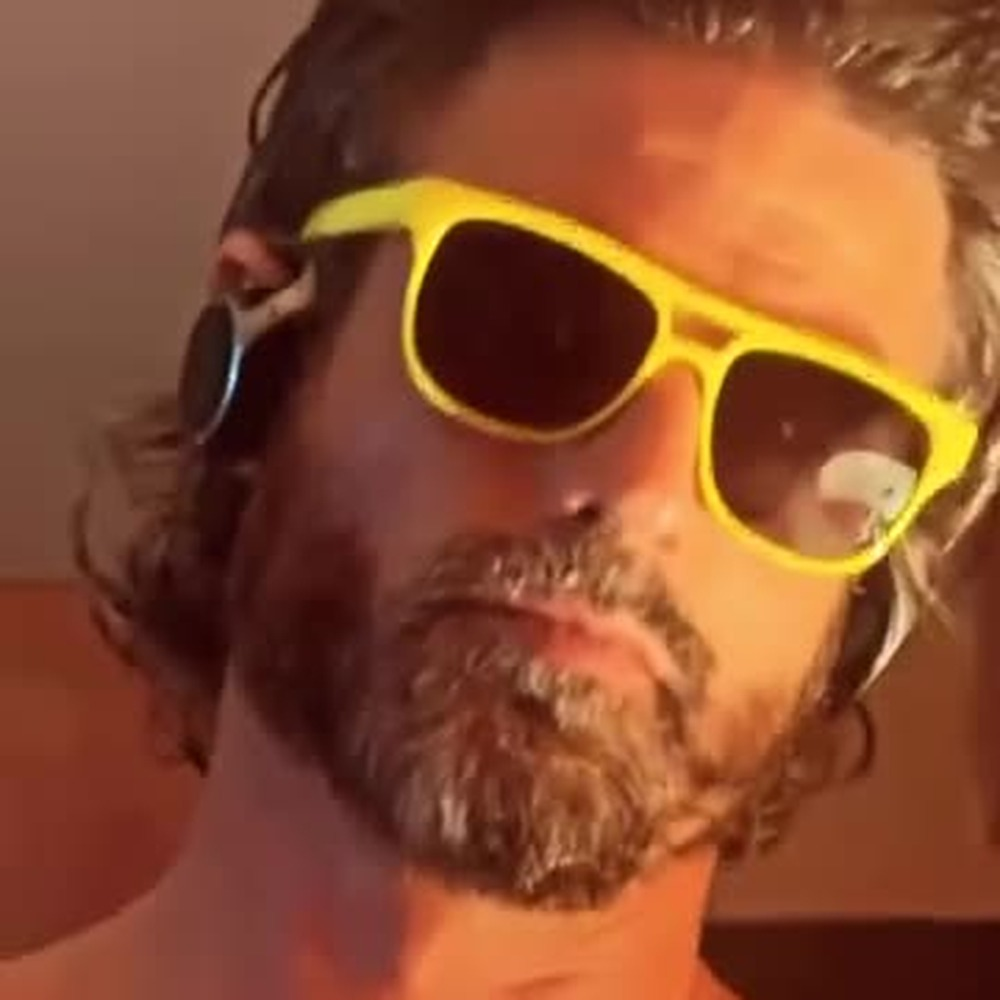
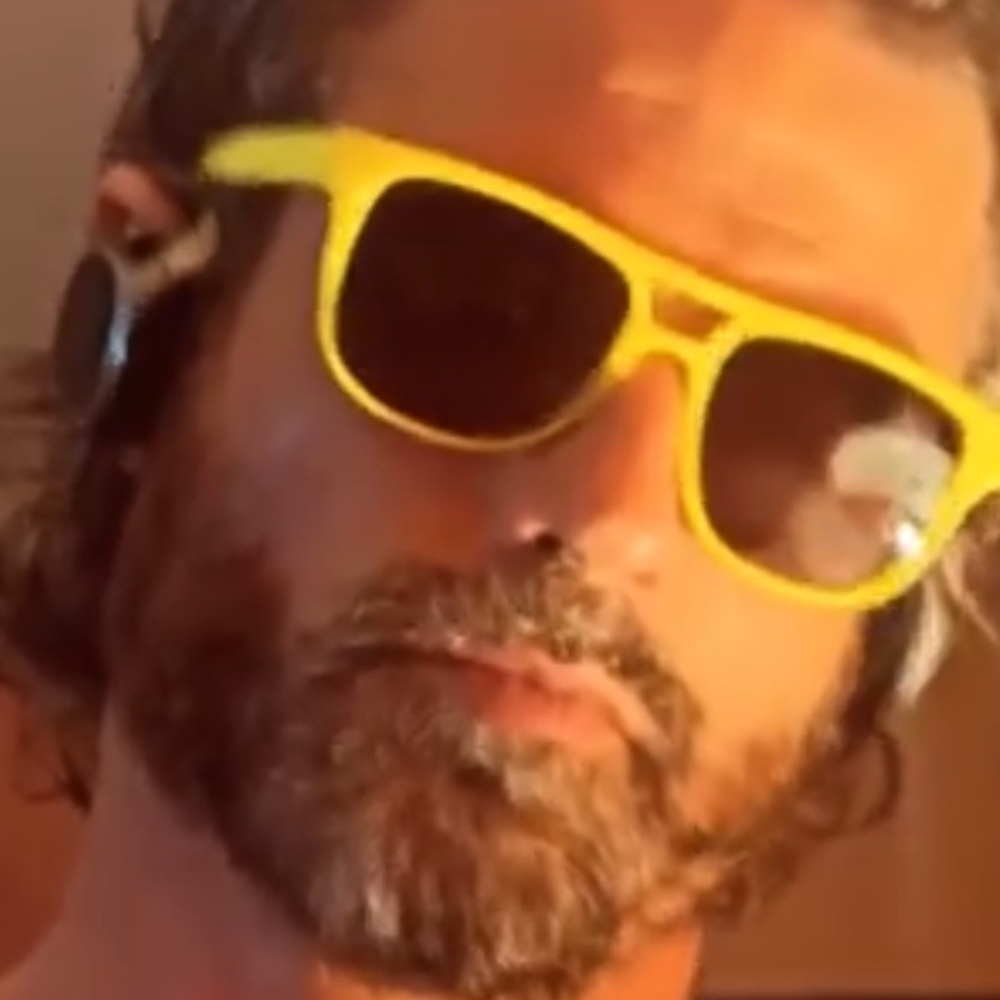
Add files via upload

diff --git a/js/townsquare.js b/js/townsquare.js
@@ -336,3 +336,92 @@ document.addEventListener('DOMContentLoaded', () => {
   overlay.addEventListener('click',e=>{if(e.target===overlay)close()});
   document.addEventListener('keydown',e=>{if(overlay.hidden)return;if(e.key==='Escape')close();if(e.key==='ArrowLeft')move(-1);if(e.key==='ArrowRight')move(1)});
 });
+
+/* Update 24 Public Launch Pass — real-media cleanup + sponsored ticket placement. */
+document.addEventListener('DOMContentLoaded', () => {
+  const root = (() => {
+    const p = location.pathname;
+    if (p.includes('/profiles/') || p.includes('/businesses/') || p.includes('/events/')) return '../../';
+    return './';
+  })();
+
+  // Public-facing cleanup: remove unfinished placeholder photo tiles and friend cards.
+  document.querySelectorAll('.photo-grid, .photos-grid').forEach(grid => {
+    [...grid.children].forEach(item => {
+      const img = item.matches?.('img') ? item : item.querySelector?.('img');
+      const src = (img?.getAttribute('src') || '').toLowerCase();
+      const label = (item.textContent || '').toLowerCase();
+      if (src.includes('placeholder') || label.includes('placeholder')) item.remove();
+    });
+    if (!grid.querySelector('img')) {
+      const card = grid.closest('.modern-card,.card');
+      if (card) card.hidden = true;
+    }
+  });
+
+  document.querySelectorAll('.modern-friends-grid').forEach(grid => {
+    [...grid.children].forEach(card => {
+      const img = card.querySelector('img');
+      const src = (img?.getAttribute('src') || '').toLowerCase();
+      const label = (card.textContent || '').toLowerCase();
+      if (src.includes('friend-placeholder') || label.includes('placeholder')) card.remove();
+    });
+    if (!grid.children.length) {
+      const card = grid.closest('.modern-card,.card');
+      if (card) card.hidden = true;
+    }
+  });
+
+  // If a dedicated Photos/Friends panel has no real public content, remove its tab too.
+  ['photos','friends'].forEach(id => {
+    const panel = document.getElementById(id);
+    if (!panel) return;
+    const selector = id === 'photos' ? '.photo-grid img,.photos-grid img' : '.modern-friends-grid .modern-friend';
+    if (!panel.querySelector(selector)) {
+      panel.hidden = true;
+      document.querySelectorAll(`.tab[data-tab="${id}"]`).forEach(tab => tab.remove());
+    }
+  });
+
+  // TownSquare sponsored show-ticket ad. Poster and button both go to the live ticket page.
+  const ticketUrl = 'https://ci.ovationtix.com/35985/production/1291112';
+  const makeAd = () => {
+    const ad = document.createElement('article');
+    ad.className = 'modern-card card ts-sponsored-ticket-ad';
+    ad.innerHTML = `
+      <div class="ts-sponsored-head"><div><b>Joshua Tree Shakespeare Company</b><small>Sponsored · 🌐</small></div></div>
+      <p><b>Romeo &amp; Juliet: A Mojave Reimagining</b><br>Falling in love for the first time… again.<br><span>October 9–18 · Theatre 29</span></p>
+      <a class="ts-sponsored-poster" href="${ticketUrl}" target="_blank" rel="noopener" aria-label="Get tickets for Romeo & Juliet: A Mojave Reimagining"><img src="${root}assets/show-ticket-poster.jpg" alt="Romeo & Juliet: A Mojave Reimagining — October 9–18, 2026 at Theatre 29"></a>
+      <div class="ts-sponsored-cta"><div><small>THEATRE 29 · TWENTYNINE PALMS</small><strong>Romeo &amp; Juliet: A Mojave Reimagining</strong></div><a href="${ticketUrl}" target="_blank" rel="noopener">Get Tickets</a></div>`;
+    return ad;
+  };
+
+  const css = document.createElement('style');
+  css.textContent = `
+    .ts-sponsored-ticket-ad{overflow:hidden;padding:0!important}
+    .ts-sponsored-head{padding:14px 16px 4px;display:flex;align-items:center;gap:10px}
+    .ts-sponsored-head small{display:block;color:#65676b;font-size:12px;margin-top:2px}
+    .ts-sponsored-ticket-ad>p{padding:4px 16px 12px;margin:0;line-height:1.4}
+    .ts-sponsored-ticket-ad>p span{color:#65676b}
+    .ts-sponsored-poster{display:block;background:#111;text-align:center}
+    .ts-sponsored-poster img{display:block;width:100%;max-height:680px;object-fit:contain;margin:0 auto;background:#111}
+    .ts-sponsored-cta{display:flex;align-items:center;justify-content:space-between;gap:16px;padding:12px 16px;background:#f0f2f5}
+    .ts-sponsored-cta div{min-width:0}.ts-sponsored-cta small{display:block;color:#65676b;font-size:11px}.ts-sponsored-cta strong{display:block;margin-top:2px}
+    .ts-sponsored-cta>a{flex:0 0 auto;background:#e4e6eb;border-radius:6px;padding:9px 14px;font-weight:700;color:#050505}
+    .ts-sponsored-cta>a:hover{background:#d8dadf}
+    @media(max-width:600px){.ts-sponsored-cta{align-items:flex-start;flex-direction:column}.ts-sponsored-cta>a{width:100%;text-align:center}.ts-sponsored-poster img{max-height:72vh}}
+  `;
+  document.head.appendChild(css);
+
+  if (location.pathname.includes('/profiles/')) {
+    const feed = document.querySelector('#all .feed');
+    if (feed && !feed.querySelector('.ts-sponsored-ticket-ad')) {
+      const ad = makeAd();
+      const posts = feed.querySelectorAll('.post,.modern-card');
+      if (posts.length > 1) posts[1].insertAdjacentElement('afterend', ad); else feed.appendChild(ad);
+    }
+  } else if (!location.pathname.includes('/businesses/') && !location.pathname.includes('/events/')) {
+    const hero = document.querySelector('.hero');
+    if (hero && !document.querySelector('.ts-sponsored-ticket-ad')) hero.insertAdjacentElement('afterend', makeAd());
+  }
+});

diff --git a/profiles/romeo-montague/index.html b/profiles/romeo-montague/index.html
@@ -15,7 +15,7 @@
 <div class="modern-grid"><aside class="modern-left">
  <article class="modern-card personal-details-card"><h2>Personal details</h2><div class="detail-list"><div class="detail-row"><span class="detail-icon" aria-hidden="true"><img src="../../assets/icons/location.svg" alt=""></span><div class="detail-copy">Lives in Mojave, CA</div></div><div class="detail-row"><span class="detail-icon" aria-hidden="true"><img src="../../assets/icons/work.svg" alt=""></span><div class="detail-copy">Owner, <a href="../../businesses/montagues-auto-repair/">Montague’s Auto Repair</a></div></div><div class="detail-row"><span class="detail-icon" aria-hidden="true"><img src="../../assets/icons/work.svg" alt=""></span><div class="detail-copy">Third-generation shop owner</div></div><div class="detail-row"><span class="detail-icon" aria-hidden="true"><img src="../../assets/icons/relationship.svg" alt=""></span><div class="detail-copy">It’s complicated</div></div></div></article>
  <article class="modern-card"><h2>Friends <a class="see-all" href="#friends">See all friends</a></h2><div class="modern-friends-grid"><a class="modern-friend" href="../benvolio/"><img src="../../assets/benvolio-profile.jpg" alt="Benvolio"><b>Benvolio</b><small>Cousin. Like a brother.</small></a><a class="modern-friend" href="../mercutio/"><img src="../../assets/mercutio-profile.jpg" alt="Mercutio"><b>Mercutio</b><small>Best friend · shop manager</small></a><a class="modern-friend" href="../apothecary/"><img src="../../assets/apothecary-profile.jpg" alt="The Apothecary"><b>The Apothecary</b><small>Mutual friends: 4</small></a><div class="modern-friend"><img src="../../assets/friend-placeholder.svg" alt="Friend photo placeholder"><b>Friend</b><small>Placeholder</small></div><div class="modern-friend"><img src="../../assets/friend-placeholder.svg" alt="Friend photo placeholder"><b>Friend</b><small>Placeholder</small></div><div class="modern-friend"><img src="../../assets/friend-placeholder.svg" alt="Friend photo placeholder"><b>Friend</b><small>Placeholder</small></div></div></article>
- <article class="modern-card"><h2>Photos <a class="see-all" href="#photos">See all photos</a></h2><div class="photo-grid"><img src="../../assets/romeo-profile.jpg" alt="Romeo Montague in sunglasses"></div></article>
+ <article class="modern-card"><h2>Photos <a class="see-all" href="#photos">See all photos</a></h2><div class="photo-grid"><img src="../../assets/romeo-gallery-01.jpg" alt="Romeo Montague in yellow sunglasses"><img src="../../assets/romeo-gallery-02.jpg" alt="Romeo Montague mirror photo"></div></article>
 </aside>
 <section class="feed">
  <article class="modern-card composer-placeholder"><img src="../../assets/romeo-profile.jpg" alt=""><div class="composer-line">What's on your mind?</div></article>
@@ -57,7 +57,7 @@
 </article>
 </section></section>
 <section id="friends" class="modern-panel single tab-panel" hidden><article class="modern-card"><h2>Friends</h2><div class="modern-friends-grid"><a class="modern-friend" href="../benvolio/"><img src="../../assets/benvolio-profile.jpg" alt="Benvolio"><b>Benvolio</b><small>Cousin. Like a brother.</small></a><a class="modern-friend" href="../mercutio/"><img src="../../assets/mercutio-profile.jpg" alt="Mercutio"><b>Mercutio</b><small>Best friend · shop manager</small></a><a class="modern-friend" href="../apothecary/"><img src="../../assets/apothecary-profile.jpg" alt="The Apothecary"><b>The Apothecary</b><small>Mutual friends: 4</small></a><div class="modern-friend"><img src="../../assets/friend-placeholder.svg" alt="Friend photo placeholder"><b>Friend</b><small>Placeholder</small></div><div class="modern-friend"><img src="../../assets/friend-placeholder.svg" alt="Friend photo placeholder"><b>Friend</b><small>Placeholder</small></div><div class="modern-friend"><img src="../../assets/friend-placeholder.svg" alt="Friend photo placeholder"><b>Friend</b><small>Placeholder</small></div></div></article></section>
-<section id="photos" class="modern-panel single tab-panel" hidden><article class="modern-card"><h2>Photos</h2><div class="photo-grid"><img src="../../assets/romeo-profile.jpg" alt="Romeo Montague in sunglasses"></div></article></section>
+<section id="photos" class="modern-panel single tab-panel" hidden><article class="modern-card"><h2>Photos</h2><div class="photo-grid"><img src="../../assets/romeo-gallery-01.jpg" alt="Romeo Montague in yellow sunglasses"><img src="../../assets/romeo-gallery-02.jpg" alt="Romeo Montague mirror photo"></div></article></section>
 <section id="videos" class="modern-panel single tab-panel" hidden><article class="modern-card"><h2>Videos</h2><div class="romeo-video-grid" style="display:grid;grid-template-columns:repeat(auto-fit,minmax(220px,1fr));gap:14px">
 <video controls playsinline preload="metadata" style="width:100%;border-radius:10px;background:#000"><source src="../../assets/romeo-video-01.mov" type="video/quicktime"></video>
 <video controls playsinline preload="metadata" style="width:100%;border-radius:10px;background:#000"><source src="../../assets/romeo-video-02.mov" type="video/quicktime"></video>

diff --git a/index.html b/index.html
@@ -78,11 +78,12 @@ Twentynine Palms, California<br>
 <p class="people-intro">Explore the profiles already appearing on TownSquare.</p><input class="search landing-search" type="search" placeholder="Search TownSquare profiles and press Return" aria-label="Search TownSquare">
 
 <div class="profile-grid">
-<a class="profile-card" href="profiles/romeo-montague/"><img src="assets/romeo-profile.svg" alt="Romeo Montague"><div><span class="name">Romeo Montague</span><span class="sub">Third-generation owner, Montague’s Auto Repair. Hopeless romantic.</span></div></a>
+<a class="profile-card" href="profiles/romeo-montague/"><img src="assets/romeo-profile.jpg" alt="Romeo Montague"><div><span class="name">Romeo Montague</span><span class="sub">Third-generation owner, Montague’s Auto Repair. Hopeless romantic.</span></div></a>
 <a class="profile-card" href="profiles/benvolio/"><img src="assets/benvolio-profile.jpg" alt="Benvolio"><div><span class="name">Benvolio</span><span class="sub">Romeo’s cousin. Like a brother. Team Montague.</span></div></a>
 <a class="profile-card" href="profiles/mercutio/"><img src="assets/mercutio-profile.jpg" alt="Mercutio"><div><span class="name">Mercutio</span><span class="sub">Merc with a mouth or whatever.</span></div></a>
 
 <a class="profile-card" href="profiles/lord-capulet/"><img src="assets/lord-capulet-profile.jpg" alt="Lord Capulet"><div><span class="name">Lord Capulet</span><span class="sub">Team Capulet. Ex-Marine. Works hard, plays hard.</span></div></a>
+<a class="profile-card" href="profiles/mayor-escalus/"><img src="assets/mayor-escalus-profile.jpg" alt="Mayor Escalus"><div><span class="name">Mayor Escalus</span><span class="sub">Mayor of Mojave. Peacemaker. New at the job.</span></div></a>
 </div>
 </section>
 
